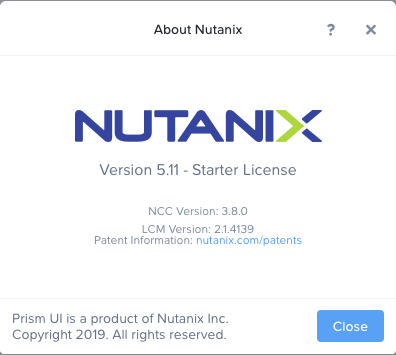
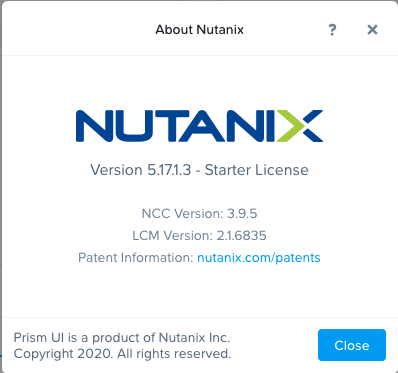
Updated for newer AOS and PC version as well as Test Drive specific requirements

diff --git a/lab_network_configuration/lab_network_configuration.rst b/lab_network_configuration/lab_network_configuration.rst
@@ -31,7 +31,6 @@ Virtual Networks
 - Physical switch port must be configured to trunk VLAN
 
 .. figure:: images/network_config_01.png
-.. figure:: images/network_config_001.png
 
 Virtual NICs of VMs
 ...................
@@ -57,52 +56,23 @@ Configure Network
 
 .. note::
 
-   In the following exercise you will create networks using invalid VLANs, meaning no VM traffic will be transmitted outside of an individual host. This is expected as the exercise is for demonstration/education purposes only.
+   In the following exercise you will emulate creating networks in Prism, however you will not be able to actually create the network due to how the emulated networking is configured within Test Drive. This is expected as the exercise is for demonstration/education purposes only.
 
 Setup User VM Network
 .....................
 
-Connect to Prism Element and create a network for user VM interfaces. Use any VLAN other than 0, and do not enable IP address management.
+Connect to Prism Element and create a network for user VM interfaces.
 
 #. In **Prism Element > VM**, click **VMs**, then click **Network Config**.
 
 #. Select **VM Networks**, then click **+ Create Network**.
 
-#. Fill out the following fields and click **Save**:
+#. Observe the available fields and click **Cancel**:
 
-   - **Name** - *Initials*-Network
-   - **VLAN ID** - 1008
-   - Do not select **Enable IP Address Management**
+.. figure:: images/pe_network.png
 
-   The final result should look like the image below.
+   The configured virtual network will now be available across all nodes within the cluster. Virtual networks in AHV behave like Distributed Virtual Switches in ESXi, meaning you do not need to configure the same settings on each individual host within the cluster. When creating VMs in IPAM managed networks, the IP can optionally be manually specified during vNIC creation. Nutanix AHV also fully supports IPAM to allocate DHCP addresses automatically.
 
-   .. figure:: images/network_config_04.png
-
-   The configured virtual network will now be available across all nodes within the cluster. Virtual networks in AHV behave like Distributed Virtual Switches in ESXi, meaning you do not need to configure the same settings on each individual host within the cluster. When creating VMs in IPAM managed networks, the IP can optionally be manually specified during vNIC creation.
-
-Setup User VM Network with IPAM
-...............................
-
-Create another network, but this time enable IPAM.
-
-#. Fill out the following fields and click **Save**:
-
-   - **Name** - *Initials*-Network_IPAM
-   - **VLAN ID** - 1108
-   - Select **Enable IP Address Management**
-   - **Network IP Address / Prefix Length** - 10.0.0.0/24
-   - **Gateway** - 10.0.0.1
-   - Do not select **Configure Domain Settings**
-   - **Create Pool** - 10.0.0.100-10.0.0.150
-   - Do not select **Override DHCP Server**
-
-   .. figure:: images/network_config_03.png
-
-   .. note::
-
-     It is possible to create multiple pool ranges for a network.
-
-   The configured virtual network will now be available across all nodes within the cluster. VMs with vNICs on this network will receive a DHCP address from the range specified. This IP assignment lasts for the life of the VM, avoiding the need to depend on DHCP reservations or static IPs for many workloads.
 
 Takeaways
 +++++++++

diff --git a/prism_central_overview/prism_central_overview.rst b/prism_central_overview/prism_central_overview.rst
@@ -12,14 +12,7 @@ This lab will introduce the Prism Central UI, and familiarize you with its layou
 Prism Central
 +++++++++++++
 
-#. Open https://<*Prism-Central-IP*>:9440
-
-#. Fill out the following fields and click **Enter**:
-
-- **Username** - admin
-- **Password** - *HPOC Password*
-
-#. After you log in to Prism Central, familiarize yourself with the Prism UI.
+#. Return to the original Test Drive Tab called "Prism Central"
 
 #. Explore the information on the **Home** screen:
 
@@ -28,16 +21,13 @@ Prism Central
 - Impacted Cluster | Alerts
 - tasks
 
-#. Review the **Explore** screen:
+#. Click the Hamburger Menu on the top left and select **Virtual Infrastructure**. The menu will expand letting select a submenu, such as VMs, Storage Containers, Catalog Items, etc
 
-- VMs
-- Images
-- Clusters
-- Hosts
-- Disks
-- Storage Containers
+.. figure:: images/pc_virtual_infra.png
 
-.. figure:: images/nutanix_tech_overview_10.png
+#. Click on **VMs**. Note how all VMs on all clusters managed by this prism central instance appears. Also note how the search bar in the top left has been auto-populated with a list, filtering on type "User VM." This search query can be modified to list all VMs (click the **X** next to the filter VM Type=User VM). The search bar can be used to filter results for all entities that Prism Central Manages (eg. Hosts, Containers, Networks, etc)
+
+.. figure:: images/pc_vms_list.png
 
 #. Review the other sections, and do a quick walk through:
 
@@ -57,23 +47,19 @@ Prism Central UI Review
 
 How would you find the screen that shows you a table of all the hosts managed by an instance of Prism Central?
 
-.. figure:: images/nutanix_tech_overview_11.png
+.. figure:: images/pc_hosts_list.png
 
 .. note::
 
-  If this Prism Central instance was managing multiple clusters, this screen would show the hosts for all of the clusters being managed.
+  Because this Test Drive Prism Central instance is managing multiple clusters, this screen shows the hosts for all of the clusters being managed.
 
-#. In **Prism Central > Explore**, click **Hosts** on left-hand menu.
+#. In **Prism Central select the Hamburger menu in the top left, then select **Hardware > Clusters**.
 
-How would you find the screen that lists all of the VMs currently deployed. This screen looks similar to the figure below?
-
-.. figure:: images/nutanix_tech_overview_12.png
-
-#. In **Prism Central > Explore**, click **VMs** on left-hand menu.
+.. figure:: images/pc_clusters_list.png
 
 What page would show you the latest activity in the system? On this page, you can monitor the progress of any task and keep track of what has been done in the past using time stamps. Can you figure out two different ways to get there?
 
-#. First Way, In **Prism Central > Home**, click **View All Tasks**. Second Way, click :fa:`circle-o`
+#. First Way, click the Hamburger menu **Activity > Tasks**. Second Way, click :fa:`circle-o` then choose "View All Tasks"
 
 .. note::
 

diff --git a/lab_nutanix_tech_overview/lab_nutanix_tech_overview.rst b/lab_nutanix_tech_overview/lab_nutanix_tech_overview.rst
@@ -28,11 +28,11 @@ The Prism service provides the web UI for managing Nutanix clusters and runs on 
    - Warning Alerts
    - Data Resiliency Status
 
-   .. figure:: images/nutanix_tech_overview_02.png
+   .. figure:: images/pe_overview.png
 
 #. Review the UI navigation options under the **View Options** pull-down menu. The label of this menu changes based on the dashboard that is currently displayed. For example, from the Home dashboard it will be labeled **Home**, from the Health dashboard it will be labeled **Health**, etc.
 
-   .. figure:: images/nutanix_tech_overview_03.png
+   .. figure:: images/pe_menu.png
 
 #. Examine the cluster hardware under **Prism > Hardware**, click **Hardware**, then click **Diagram**.
 
@@ -44,7 +44,7 @@ The Prism service provides the web UI for managing Nutanix clusters and runs on 
    - CPU
    - Disks
 
-   .. figure:: images/nutanix_tech_overview_04.png
+   .. figure:: images/pe_hw.png
 
 #. Review the other sections, and do a quick walk through:
 
@@ -66,7 +66,7 @@ The Prism service provides the web UI for managing Nutanix clusters and runs on 
    - Configuration :fa:`cog`
    - User :fa:`user`
 
-   .. figure:: images/nutanix_tech_overview_05.png
+   .. figure:: images/pe_top_bar.png
 
 Prism Element UI Review
 .......................
@@ -79,19 +79,19 @@ You can do this by clicking on the **User** drop down :fa:`user`, and clicking *
 
 How would you get to the following screen to view a summary of the number of hosts (or nodes) and the resource capacity and current utilization?
 
-.. figure:: images/nutanix_tech_overview_07.png
+.. figure:: images/pe_hosts.png
 
 In **Prism > Hardware**, click **Hardware**, then click **Table**.
 
 How would you get the following screen to see the health of your cluster?
 
-.. figure:: images/nutanix_tech_overview_08.png
+.. figure:: images/pe_health.png
 
 In **Prism > Health**, click **Health**, then click **Summary** in the right pane.
 
 What page would show you the latest activity in the system? On this page, you can monitor the progress of any task and keep track of what has been done in the past using time stamps. Can you figure out two different ways to get there?
 
-.. figure:: images/nutanix_tech_overview_09.png
+.. figure:: images/pe_tasks.png
 
 From the View Options menu, select **Tasks**, or click the circle :fa:`circle-o` icon in the toolbar, to the right of the bell icon :fa:`bell`.
 

diff --git a/lab_storage_configuration/lab_storage_configuration.rst b/lab_storage_configuration/lab_storage_configuration.rst
@@ -105,7 +105,11 @@ Block Awareness, in a sufficiently large cluster, ensures that secondary copies 
 
 The basic requirement for rack/block fault tolerance is to have minimum 3 blocks in the cluster (for RF2) as we need to store 3 copies of metadata. Starting in AOS 5.8, rack and block awareness can be supported with erasure coding enabled.
 
-#. In **Prism > Home**, click **OK** in the **Data Resiliency Status** box.
+#. In **Prism > Home**, click **OK** or **Critical** in the **Data Resiliency Status** box.
+
+.. note::
+
+   Note in Test Drive because we use a single node cluster, Data Resiliency Status will report as **Critical** which is expected since we do not have any redundancy in the cluster. In a normal Nutanix cluster with 3 or more nodes, this box will report as **OK**
 
 .. figure:: images/storage_config_03.png
 

diff --git a/lab_data_protection/lab_data_protection.rst b/lab_data_protection/lab_data_protection.rst
@@ -60,7 +60,7 @@ Protection Domains
 
    .. note::
 
-      Synchronous replication (Metro Availability) is currently support on ESXi. It will be supported in AHV in a future release.
+      As of AOS 5.17.1 and newer, synchronous replication is supported with AHV but only when using 2 Prism Centrals. Near-sync is supported with a single Prism Central, but will not be available in the Test Drive environment. For more information, review the `General Requirements of Leap <https://portal.nutanix.com/page/documents/details?targetId=Xi-Leap-Admin-Guide-master:dra-draas-requirements-pc-r.html>`_
 
 #. When opening the Data Protection context of the menu a warning screen will appear. Click on the **OK** button to move forward.
 

diff --git a/index.rst b/index.rst
@@ -37,8 +37,8 @@ What's New
 ++++++++++
 
 - Workshop updated for the following software versions:
-    - AOS 5.11.x
-    - PC 5.11.x
+    - AOS 5.17.x
+    - PC 2020.7
 
 - Optional Lab Updates:
 
@@ -65,6 +65,6 @@ You should have received an email with the Cluster link.
 Nutanix Version Info
 ++++++++++++++++++++
 
-- **AHV Version** - AHV 20170830.337
-- **AOS Version** - 5.11.x/5.15.x/5.16.x/5.17.x
-- **PC Version** - 5.17.0.3
+- **AHV Version** - AHV 20170830.122
+- **AOS Version** - 5.17.x
+- **PC Version** - 2020.7
